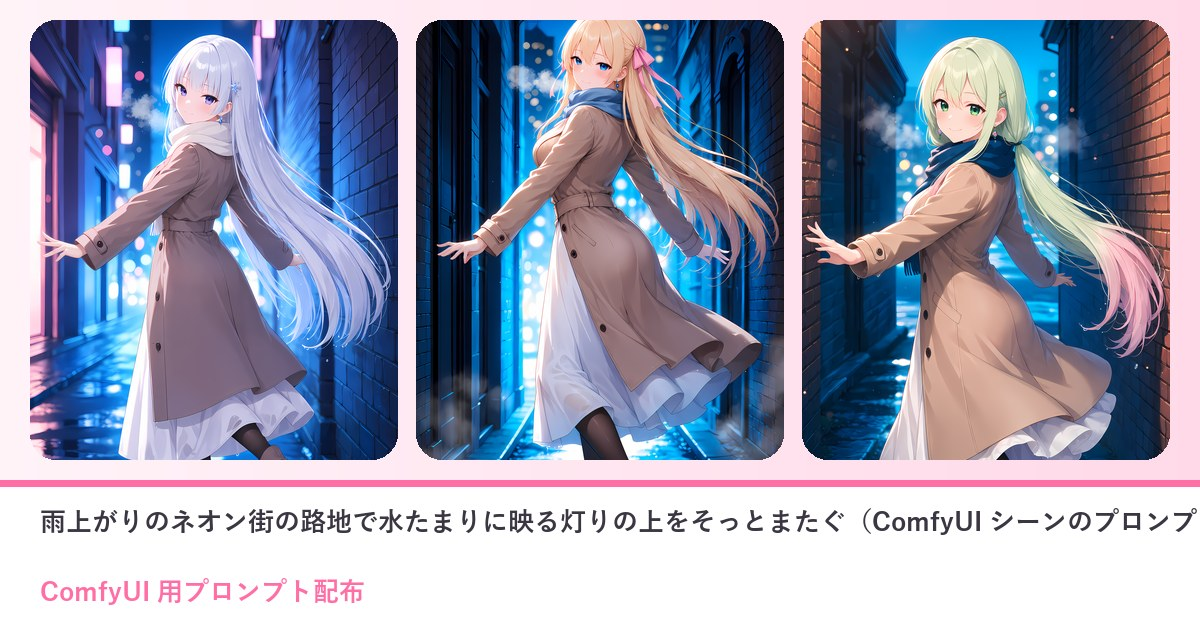
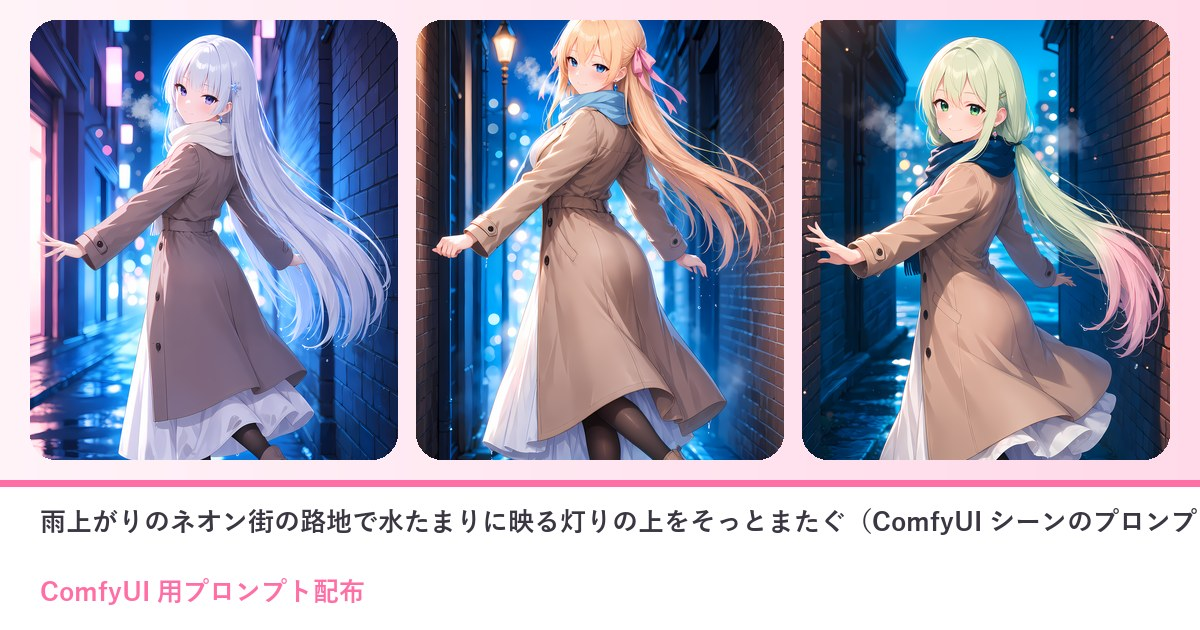
11/09 ネオン街の配布 セフィリアの作例を描き直し（指6本の再生成）

Changed region(s): [[0.3392, 0.0302, 0.6783, 0.754]]

diff --git a/prompts/2026-11-09-comfy-r8ez3ovx.html b/prompts/2026-11-09-comfy-r8ez3ovx.html
@@ -74,7 +74,7 @@
 <div class="sky"></div>
 <main class="wrap">
 <section class="sec"><div class="sec-head"><h2>雨上がりのネオン街の路地で水たまりに映る灯りの上をそっとまたぐ（ComfyUI シーンのプロンプト）</h2><p>ひみつの眠り姫のプロンプト配布</p></div>
-<div class="ps"><p><span class="ps-badge">ComfyUI 用</span><span class="ps-badge">2026-11-09</span></p><p class="ps-lead">ComfyUI（Anima）に貼るだけで、映画のワンシーンみたいな雨上がりの夜に。ぬれたれんがの路地にピンクと青の灯りがにじむ夜、両手を広げた女の子が、水たまりを片足でそっとまたぎながら振り返ってほほえみます。LoRA がない方は、いちばん上の行の髪と瞳を書き換えるだけで、あなたの子に近づけられます。</p><nav class="ps-toc" aria-label="目次"><p>📑 目次</p><ol><li><a href="#sec1">作例</a></li><li><a href="#sec2">3人のおしゃべり（雨上がりのネオン街の路地）</a></li><li><a href="#sec3">使い方（3ステップ）</a></li><li><a href="#sec4">プロンプト</a></li><li><a href="#sec5">必要なもの（ComfyUI）</a></li><li><a href="#sec6">メモ</a></li><li><a href="#sec7">配布ルール</a></li></ol></nav><h2 id="sec1">作例</h2><div class="ps-ex"><figure><img src="img/2026-11-09-comfy-r8ez3ovx/ex1.webp" alt="リリアの LoRA で焼いた一枚（A のプロンプト）。青い夜の路地、れんがの壁と字のないピンクの灯りのあいだで、銀色の長い髪をなびかせて振り返り、すみれ色の瞳でそっとほほえむ。両手を横に広げて、片足を上げたまま水たまりに波紋。白いマフラーに茶色のロングコート、白いワンピースと黒タイツにブーツ、吐く息は白く" loading="lazy"><figcaption>リリアの LoRA で焼いた一枚（A のプロンプト）。青い夜の路地、れんがの壁と字のないピンクの灯りのあいだで、銀色の長い髪をなびかせて振り返り、すみれ色の瞳でそっとほほえむ。両手を横に広げて、片足を上げたまま水たまりに波紋。白いマフラーに茶色のロングコート、白いワンピースと黒タイツにブーツ、吐く息は白く</figcaption></figure><figure><img src="img/2026-11-09-comfy-r8ez3ovx/ex2.webp" alt="同じプロンプトをセフィリアの LoRA で。金色の長い髪にピンクのリボン、青い瞳で振り返ってはにかむ。青いマフラーにベージュのトレンチコート、両手を広げて片足を上げ、ぬれた路地の水たまりに波紋。うしろには夜のビルの灯りがぼんやり" loading="lazy"><figcaption>同じプロンプトをセフィリアの LoRA で。金色の長い髪にピンクのリボン、青い瞳で振り返ってはにかむ。青いマフラーにベージュのトレンチコート、両手を広げて片足を上げ、ぬれた路地の水たまりに波紋。うしろには夜のビルの灯りがぼんやり</figcaption></figure><figure><img src="img/2026-11-09-comfy-r8ez3ovx/ex3.webp" alt="同じプロンプトをティルナの LoRA で。若葉色から毛先がピンクになる長い髪を低く結んで、緑の瞳でにっこり。紺のマフラーにキャメルのコート、れんがの壁に手をのばして釣り合いをとりながら、片足で水たまりをまたぐ。吐く息は白く、路地の奥は青い夜" loading="lazy"><figcaption>同じプロンプトをティルナの LoRA で。若葉色から毛先がピンクになる長い髪を低く結んで、緑の瞳でにっこり。紺のマフラーにキャメルのコート、れんがの壁に手をのばして釣り合いをとりながら、片足で水たまりをまたぐ。吐く息は白く、路地の奥は青い夜</figcaption></figure></div><p style="font-size:.82rem;color:var(--ps-ink)">※作例の画像の転載・保存しての再配布はご遠慮ください。</p><h2 id="sec2">3人のおしゃべり（雨上がりのネオン街の路地）</h2><div class="ps-chat"><img src="img/2026-11-09-comfy-r8ez3ovx/talk_tiru_happy.webp" alt="ティルナ" loading="lazy"><div><div class="who">ティルナ</div><div class="bub">よーい、アクション！ 今日はティルナ監督が、雨上がりの路地で映画を撮るよ！</div></div></div><div class="ps-chat r"><img src="img/2026-11-09-comfy-r8ez3ovx/talk_sefi_normal.webp" alt="セフィリア" loading="lazy"><div><div class="who">セフィリア</div><div class="bub">まあ、れんがの路地がぬれて、ピンクと青の灯りがにじんでいるのです。まるで映画のセットなのです</div></div></div><div class="ps-chat r"><img src="img/2026-11-09-comfy-r8ez3ovx/talk_lilia_normal.webp" alt="リリア" loading="lazy"><div><div class="who">リリア</div><div class="bub">主演はわたしだそうです。……両手を広げて、水たまりをまたぎながら振り返る役です</div></div></div><div class="ps-chat"><img src="img/2026-11-09-comfy-r8ez3ovx/talk_tiru_happy.webp" alt="ティルナ" loading="lazy"><div><div class="who">ティルナ</div><div class="bub">そう、そこで振り返って、ふわっとほほえんで！ ……カット！ 今のすごくよかった！</div></div></div><div class="ps-chat r"><img src="img/2026-11-09-comfy-r8ez3ovx/talk_sefi_shy.webp" alt="セフィリア" loading="lazy"><div><div class="who">セフィリア</div><div class="bub">監督、わたくしもまたぎながら名ゼリフを言いたいのです。「この夜を、忘れないのです」……</div></div></div><div class="ps-chat r"><img src="img/2026-11-09-comfy-r8ez3ovx/talk_lilia_shy.webp" alt="リリア" loading="lazy"><div><div class="who">リリア</div><div class="bub">……セフィリア様、せっかくの名ゼリフですけれど、この絵には声が入りません</div></div></div><div class="ps-chat"><img src="img/2026-11-09-comfy-r8ez3ovx/talk_tiru_normal.webp" alt="ティルナ" loading="lazy"><div><div class="who">ティルナ</div><div class="bub">今日の配布は、雨上がりの夜の路地で、水たまりをそっとまたいで振り返る一枚だよ</div></div></div><div class="ps-chat r"><img src="img/2026-11-09-comfy-r8ez3ovx/talk_sefi_normal.webp" alt="セフィリア" loading="lazy"><div><div class="who">セフィリア</div><div class="bub">片足を上げるのは standing on one leg と leg up、振り返るのは looking back なのです</div></div></div><div class="ps-chat r"><img src="img/2026-11-09-comfy-r8ez3ovx/talk_lilia_normal.webp" alt="リリア" loading="lazy"><div><div class="who">リリア</div><div class="bub">両手は outstretched arms で横に広げて釣り合いをとります。傘は持ちません</div></div></div><div class="ps-chat"><img src="img/2026-11-09-comfy-r8ez3ovx/talk_tiru_happy.webp" alt="ティルナ" loading="lazy"><div><div class="who">ティルナ</div><div class="bub">ネオンって書くと看板の字が出ちゃうから、city lights と pink theme と blue theme で色だけ！</div></div></div><div class="ps-chat r"><img src="img/2026-11-09-comfy-r8ez3ovx/talk_sefi_normal.webp" alt="セフィリア" loading="lazy"><div><div class="who">セフィリア</div><div class="bub">水たまりに体が映ると鏡のようになるので、reflection はネガティブで止めてあるのです</div></div></div><div class="ps-chat r"><img src="img/2026-11-09-comfy-r8ez3ovx/talk_lilia_normal.webp" alt="リリア" loading="lazy"><div><div class="who">リリア</div><div class="bub">LoRA がなくても、いちばん上の髪と瞳の行をあなたの子に書きかえれば、同じ夜になります</div></div></div><div class="ps-chat"><img src="img/2026-11-09-comfy-r8ez3ovx/talk_tiru_shy.webp" alt="ティルナ" loading="lazy"><div><div class="who">ティルナ</div><div class="bub">もう一回いくよ！ リリア、もっと大きくまたいで！ よーい……</div></div></div><div class="ps-chat r"><img src="img/2026-11-09-comfy-r8ez3ovx/talk_lilia_shy.webp" alt="リリア" loading="lazy"><div><div class="who">リリア</div><div class="bub">……監督、もう十回目です。足が、少しぷるぷるしてきました</div></div></div><div class="ps-chat r"><img src="img/2026-11-09-comfy-r8ez3ovx/talk_sefi_normal.webp" alt="セフィリア" loading="lazy"><div><div class="who">セフィリア</div><div class="bub">では、最後は三人いっしょにまたぐのです。手をつないで、せーので</div></div></div><div class="ps-chat"><img src="img/2026-11-09-comfy-r8ez3ovx/talk_tiru_happy.webp" alt="ティルナ" loading="lazy"><div><div class="who">ティルナ</div><div class="bub">カット、完成！ あなたの子のまたぐ瞬間も、こっそり見せてね♡</div></div></div><h2 id="sec3">使い方（3ステップ）</h2><ol class="ps-steps"><li>ComfyUI で Anima のモデルを読み、基本の画像生成（テキストから画像）の画面にする</li><li>下の A（LoRA なし）か B（LoRA あり）のポジティブと、ネガティブをワンタップでコピーして貼る</li><li>「推奨値」の大きさ・steps・CFG にして生成する（できれば 1.5 倍の hires fix も）</li></ol><h2 id="sec4">プロンプト</h2><div class="ps-note" style="margin-bottom:12px"><b>変えるのは1行目の色の付いたところだけ</b>（先頭の <code>1girl, solo</code> などはそのまま）<ul><li>使うプロンプトは2通り＝<b>A. LoRA を持っていない人</b>／<b>B. 自分のキャラの LoRA を持っている人</b>。どちらも丸ごとコピーして貼るだけ</li><li>A は<b>そのまま</b>でも綺麗な女の子で出ます。自分のキャラにするなら1行目の髪の色・髪型・目の色を書き換えるだけ</li><li>B は1行目の <code>your_lora_trigger</code> を自分の LoRA のトリガー語に置きかえるだけ（LoRA の強さは下の表）</li><li>2行目から下（シーン）と、ネガティブプロンプトは変えずにそのまま</li><li>🚫 版権キャラの名前・版権キャラの LoRA を入れて使うのは固く禁止です（下の「配布ルール」）</li></ul></div><h3 style="margin:14px 0 8px">A. LoRA を持っていない人（そのままでもOK）</h3><div class="ps-box"><button class="ps-copy" type="button" data-target="ps-prompt">📋 ワンタップでコピー</button><p style="margin:0 0 8px;font-size:.82rem;color:var(--ps-a)">ポジティブプロンプト</p><pre>1girl, solo, <mark class="ps-in" data-key="キャラの行">very long hair, white hair, blunt bangs, purple eyes</mark>
+<div class="ps"><p><span class="ps-badge">ComfyUI 用</span><span class="ps-badge">2026-11-09</span></p><p class="ps-lead">ComfyUI（Anima）に貼るだけで、映画のワンシーンみたいな雨上がりの夜に。ぬれたれんがの路地にピンクと青の灯りがにじむ夜、両手を広げた女の子が、水たまりを片足でそっとまたぎながら振り返ってほほえみます。LoRA がない方は、いちばん上の行の髪と瞳を書き換えるだけで、あなたの子に近づけられます。</p><nav class="ps-toc" aria-label="目次"><p>📑 目次</p><ol><li><a href="#sec1">作例</a></li><li><a href="#sec2">3人のおしゃべり（雨上がりのネオン街の路地）</a></li><li><a href="#sec3">使い方（3ステップ）</a></li><li><a href="#sec4">プロンプト</a></li><li><a href="#sec5">必要なもの（ComfyUI）</a></li><li><a href="#sec6">メモ</a></li><li><a href="#sec7">配布ルール</a></li></ol></nav><h2 id="sec1">作例</h2><div class="ps-ex"><figure><img src="img/2026-11-09-comfy-r8ez3ovx/ex1.webp" alt="リリアの LoRA で焼いた一枚（A のプロンプト）。青い夜の路地、れんがの壁と字のないピンクの灯りのあいだで、銀色の長い髪をなびかせて振り返り、すみれ色の瞳でそっとほほえむ。両手を横に広げて、片足を上げたまま水たまりに波紋。白いマフラーに茶色のロングコート、白いワンピースと黒タイツにブーツ、吐く息は白く" loading="lazy"><figcaption>リリアの LoRA で焼いた一枚（A のプロンプト）。青い夜の路地、れんがの壁と字のないピンクの灯りのあいだで、銀色の長い髪をなびかせて振り返り、すみれ色の瞳でそっとほほえむ。両手を横に広げて、片足を上げたまま水たまりに波紋。白いマフラーに茶色のロングコート、白いワンピースと黒タイツにブーツ、吐く息は白く</figcaption></figure><figure><img src="img/2026-11-09-comfy-r8ez3ovx/ex2.webp" alt="同じプロンプトをセフィリアの LoRA で。金色の長い髪にピンクのリボン、青い瞳で振り返ってはにかむ。水色のマフラーにベージュのトレンチコート、両手を横にのばして片足を上げ、ぬれた路地の水たまりに波紋。うしろには街灯と、にじんだ青い灯り" loading="lazy"><figcaption>同じプロンプトをセフィリアの LoRA で。金色の長い髪にピンクのリボン、青い瞳で振り返ってはにかむ。水色のマフラーにベージュのトレンチコート、両手を横にのばして片足を上げ、ぬれた路地の水たまりに波紋。うしろには街灯と、にじんだ青い灯り</figcaption></figure><figure><img src="img/2026-11-09-comfy-r8ez3ovx/ex3.webp" alt="同じプロンプトをティルナの LoRA で。若葉色から毛先がピンクになる長い髪を低く結んで、緑の瞳でにっこり。紺のマフラーにキャメルのコート、れんがの壁に手をのばして釣り合いをとりながら、片足で水たまりをまたぐ。吐く息は白く、路地の奥は青い夜" loading="lazy"><figcaption>同じプロンプトをティルナの LoRA で。若葉色から毛先がピンクになる長い髪を低く結んで、緑の瞳でにっこり。紺のマフラーにキャメルのコート、れんがの壁に手をのばして釣り合いをとりながら、片足で水たまりをまたぐ。吐く息は白く、路地の奥は青い夜</figcaption></figure></div><p style="font-size:.82rem;color:var(--ps-ink)">※作例の画像の転載・保存しての再配布はご遠慮ください。</p><h2 id="sec2">3人のおしゃべり（雨上がりのネオン街の路地）</h2><div class="ps-chat"><img src="img/2026-11-09-comfy-r8ez3ovx/talk_tiru_happy.webp" alt="ティルナ" loading="lazy"><div><div class="who">ティルナ</div><div class="bub">よーい、アクション！ 今日はティルナ監督が、雨上がりの路地で映画を撮るよ！</div></div></div><div class="ps-chat r"><img src="img/2026-11-09-comfy-r8ez3ovx/talk_sefi_normal.webp" alt="セフィリア" loading="lazy"><div><div class="who">セフィリア</div><div class="bub">まあ、れんがの路地がぬれて、ピンクと青の灯りがにじんでいるのです。まるで映画のセットなのです</div></div></div><div class="ps-chat r"><img src="img/2026-11-09-comfy-r8ez3ovx/talk_lilia_normal.webp" alt="リリア" loading="lazy"><div><div class="who">リリア</div><div class="bub">主演はわたしだそうです。……両手を広げて、水たまりをまたぎながら振り返る役です</div></div></div><div class="ps-chat"><img src="img/2026-11-09-comfy-r8ez3ovx/talk_tiru_happy.webp" alt="ティルナ" loading="lazy"><div><div class="who">ティルナ</div><div class="bub">そう、そこで振り返って、ふわっとほほえんで！ ……カット！ 今のすごくよかった！</div></div></div><div class="ps-chat r"><img src="img/2026-11-09-comfy-r8ez3ovx/talk_sefi_shy.webp" alt="セフィリア" loading="lazy"><div><div class="who">セフィリア</div><div class="bub">監督、わたくしもまたぎながら名ゼリフを言いたいのです。「この夜を、忘れないのです」……</div></div></div><div class="ps-chat r"><img src="img/2026-11-09-comfy-r8ez3ovx/talk_lilia_shy.webp" alt="リリア" loading="lazy"><div><div class="who">リリア</div><div class="bub">……セフィリア様、せっかくの名ゼリフですけれど、この絵には声が入りません</div></div></div><div class="ps-chat"><img src="img/2026-11-09-comfy-r8ez3ovx/talk_tiru_normal.webp" alt="ティルナ" loading="lazy"><div><div class="who">ティルナ</div><div class="bub">今日の配布は、雨上がりの夜の路地で、水たまりをそっとまたいで振り返る一枚だよ</div></div></div><div class="ps-chat r"><img src="img/2026-11-09-comfy-r8ez3ovx/talk_sefi_normal.webp" alt="セフィリア" loading="lazy"><div><div class="who">セフィリア</div><div class="bub">片足を上げるのは standing on one leg と leg up、振り返るのは looking back なのです</div></div></div><div class="ps-chat r"><img src="img/2026-11-09-comfy-r8ez3ovx/talk_lilia_normal.webp" alt="リリア" loading="lazy"><div><div class="who">リリア</div><div class="bub">両手は outstretched arms で横に広げて釣り合いをとります。傘は持ちません</div></div></div><div class="ps-chat"><img src="img/2026-11-09-comfy-r8ez3ovx/talk_tiru_happy.webp" alt="ティルナ" loading="lazy"><div><div class="who">ティルナ</div><div class="bub">ネオンって書くと看板の字が出ちゃうから、city lights と pink theme と blue theme で色だけ！</div></div></div><div class="ps-chat r"><img src="img/2026-11-09-comfy-r8ez3ovx/talk_sefi_normal.webp" alt="セフィリア" loading="lazy"><div><div class="who">セフィリア</div><div class="bub">水たまりに体が映ると鏡のようになるので、reflection はネガティブで止めてあるのです</div></div></div><div class="ps-chat r"><img src="img/2026-11-09-comfy-r8ez3ovx/talk_lilia_normal.webp" alt="リリア" loading="lazy"><div><div class="who">リリア</div><div class="bub">LoRA がなくても、いちばん上の髪と瞳の行をあなたの子に書きかえれば、同じ夜になります</div></div></div><div class="ps-chat"><img src="img/2026-11-09-comfy-r8ez3ovx/talk_tiru_shy.webp" alt="ティルナ" loading="lazy"><div><div class="who">ティルナ</div><div class="bub">もう一回いくよ！ リリア、もっと大きくまたいで！ よーい……</div></div></div><div class="ps-chat r"><img src="img/2026-11-09-comfy-r8ez3ovx/talk_lilia_shy.webp" alt="リリア" loading="lazy"><div><div class="who">リリア</div><div class="bub">……監督、もう十回目です。足が、少しぷるぷるしてきました</div></div></div><div class="ps-chat r"><img src="img/2026-11-09-comfy-r8ez3ovx/talk_sefi_normal.webp" alt="セフィリア" loading="lazy"><div><div class="who">セフィリア</div><div class="bub">では、最後は三人いっしょにまたぐのです。手をつないで、せーので</div></div></div><div class="ps-chat"><img src="img/2026-11-09-comfy-r8ez3ovx/talk_tiru_happy.webp" alt="ティルナ" loading="lazy"><div><div class="who">ティルナ</div><div class="bub">カット、完成！ あなたの子のまたぐ瞬間も、こっそり見せてね♡</div></div></div><h2 id="sec3">使い方（3ステップ）</h2><ol class="ps-steps"><li>ComfyUI で Anima のモデルを読み、基本の画像生成（テキストから画像）の画面にする</li><li>下の A（LoRA なし）か B（LoRA あり）のポジティブと、ネガティブをワンタップでコピーして貼る</li><li>「推奨値」の大きさ・steps・CFG にして生成する（できれば 1.5 倍の hires fix も）</li></ol><h2 id="sec4">プロンプト</h2><div class="ps-note" style="margin-bottom:12px"><b>変えるのは1行目の色の付いたところだけ</b>（先頭の <code>1girl, solo</code> などはそのまま）<ul><li>使うプロンプトは2通り＝<b>A. LoRA を持っていない人</b>／<b>B. 自分のキャラの LoRA を持っている人</b>。どちらも丸ごとコピーして貼るだけ</li><li>A は<b>そのまま</b>でも綺麗な女の子で出ます。自分のキャラにするなら1行目の髪の色・髪型・目の色を書き換えるだけ</li><li>B は1行目の <code>your_lora_trigger</code> を自分の LoRA のトリガー語に置きかえるだけ（LoRA の強さは下の表）</li><li>2行目から下（シーン）と、ネガティブプロンプトは変えずにそのまま</li><li>🚫 版権キャラの名前・版権キャラの LoRA を入れて使うのは固く禁止です（下の「配布ルール」）</li></ul></div><h3 style="margin:14px 0 8px">A. LoRA を持っていない人（そのままでもOK）</h3><div class="ps-box"><button class="ps-copy" type="button" data-target="ps-prompt">📋 ワンタップでコピー</button><p style="margin:0 0 8px;font-size:.82rem;color:var(--ps-a)">ポジティブプロンプト</p><pre>1girl, solo, <mark class="ps-in" data-key="キャラの行">very long hair, white hair, blunt bangs, purple eyes</mark>
 masterpiece, best quality, score_7, safe, full body, from side, standing on one leg, leg up, looking back, looking at viewer, smile, closed mouth, blush, outstretched arms, wet hair, coat, brown coat, buttons, long coat, white dress, long skirt, long sleeves, scarf, black pantyhose, ankle boots, hair ornament, earrings, floating hair, alley, city lights, puddle, wet ground, brick wall, road, steam, after rain, night, outdoors, pink theme, blue theme, cool colors, color contrast, depth of field, bokeh, light particles</pre><textarea class="ps-copyarea" id="ps-prompt" readonly aria-hidden="true" tabindex="-1">1girl, solo, very long hair, white hair, blunt bangs, purple eyes
 masterpiece, best quality, score_7, safe, full body, from side, standing on one leg, leg up, looking back, looking at viewer, smile, closed mouth, blush, outstretched arms, wet hair, coat, brown coat, buttons, long coat, white dress, long skirt, long sleeves, scarf, black pantyhose, ankle boots, hair ornament, earrings, floating hair, alley, city lights, puddle, wet ground, brick wall, road, steam, after rain, night, outdoors, pink theme, blue theme, cool colors, color contrast, depth of field, bokeh, light particles</textarea></div><h3 style="margin:18px 0 8px">B. 自分のキャラの LoRA を持っている人</h3><div class="ps-box"><button class="ps-copy" type="button" data-target="ps-prompt-lora">📋 ワンタップでコピー</button><p style="margin:0 0 8px;font-size:.82rem;color:var(--ps-a)">ポジティブプロンプト（LoRA 用）</p><pre>masterpiece, best quality, score_7, year 2025, highres, absurdres, <mark class="ps-in" data-key="キャラの行">your_lora_trigger</mark>, 1girl, solo,
 full body, from side, standing on one leg, leg up, looking back, looking at viewer, smile, closed mouth, blush, outstretched arms, wet hair, coat, brown coat, buttons, long coat, white dress, long skirt, long sleeves, scarf, black pantyhose, ankle boots, hair ornament, earrings, floating hair, alley, city lights, puddle, wet ground, brick wall, road, steam, after rain, night, outdoors, pink theme, blue theme, cool colors, color contrast, depth of field, bokeh, light particles</pre><textarea class="ps-copyarea" id="ps-prompt-lora" readonly aria-hidden="true" tabindex="-1">masterpiece, best quality, score_7, year 2025, highres, absurdres, your_lora_trigger, 1girl, solo,
